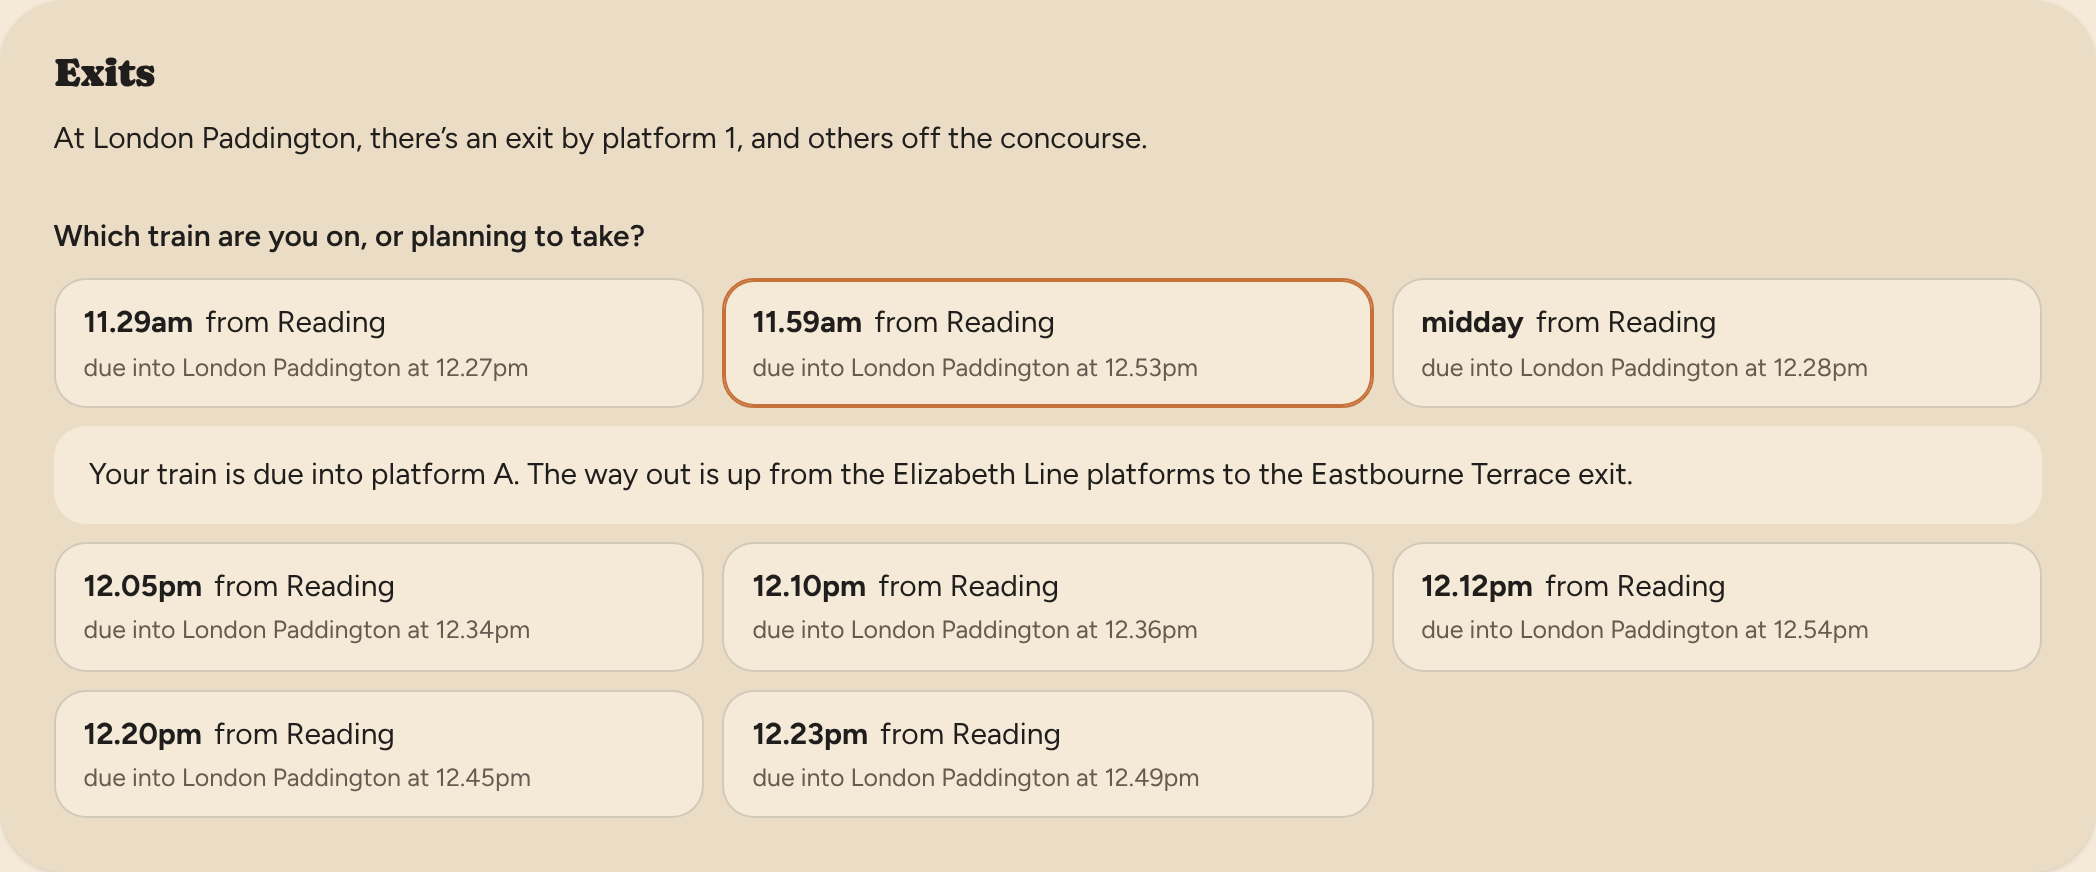
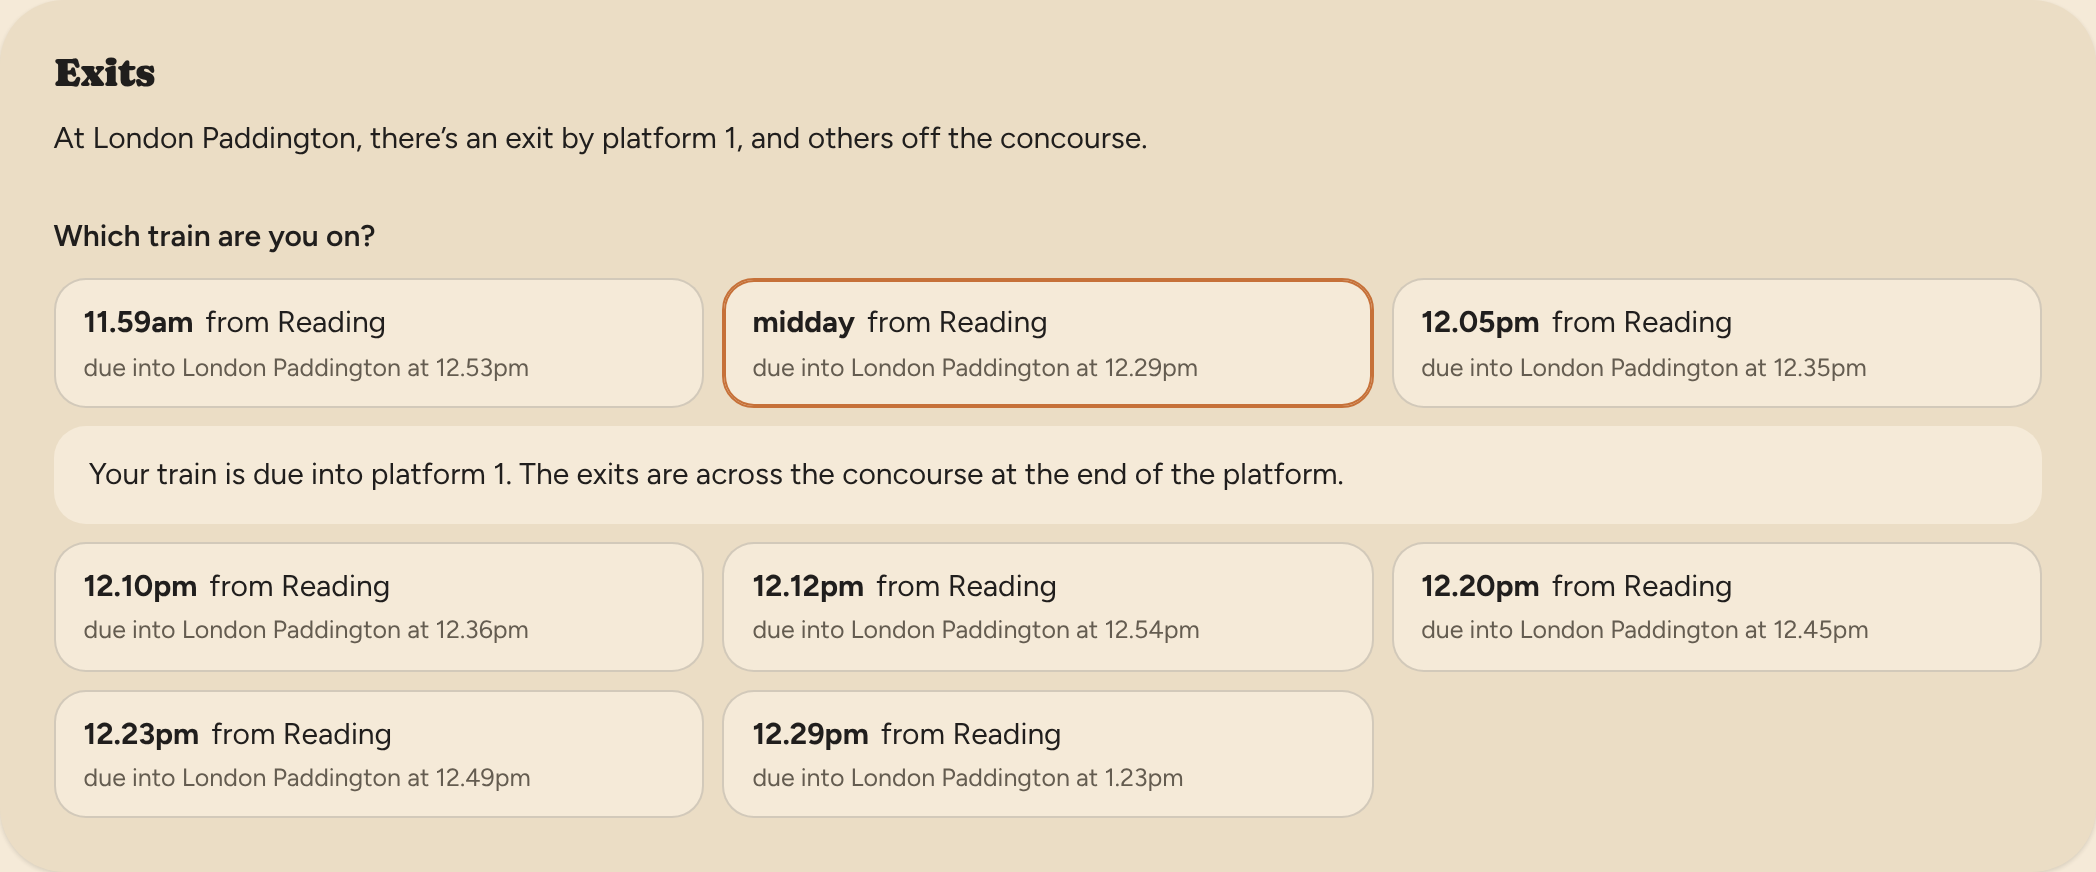
Connections: the answer straight under the train you tapped, as in Exits
Claude-Session: https://claude.ai/code/session_01BsvHLFfPFr7TbPzqXab8yu

diff --git a/src/components/Connection.tsx b/src/components/Connection.tsx
@@ -2,7 +2,7 @@
 // heading, a line, and a fold ("Check trains leaving B"); inside it, step by step: where you're going next from B, which train from A you're on, and the answer
 // in a sentence, with the other trains you could change onto. A prototype: the headings, questions
 // and messages here are Claude's drafts; the answer's wording is in lib/connection.ts.
-import { useEffect, useMemo, useState } from 'react'
+import { Fragment, useEffect, useMemo, useState } from 'react'
 import { clock, diff, type Analysis } from '../lib/analyse.ts'
 import { answer, chipLabel, choices, firstChoice, mineOf, speeds, whichTrain, type Mine } from '../lib/connection.ts'
 import { fetchConnect, fetchPlaces } from '../lib/load.ts'
@@ -13,6 +13,7 @@ import type { Connect } from '../../api/connect.ts'
 import { StationBox } from './Chooser.tsx'
 import { Icon } from './Icon.tsx'
 import type { LinksTable } from '../lib/platformLinks.ts'
+import { rowEnd, useGridCols } from '../lib/useGridCols.ts'
 
 type Result = { s: 'idle' } | { s: 'ok'; d: Connect } | { s: 'failed' }
 const EDGE = { fine: 'good', tight: 'mixed', unlikely: 'prepared', missed: 'prepared', through: 'good', none: 'none', unknown: 'none' } as const
@@ -58,6 +59,9 @@ export function Connection({ a }: { a: Analysis }) {
     // a.taken: asked again with each "Check again".
   }, [dest, mineId, arr, a.toCrs, a.fromCrs, a.taken])
 
+  // How many trains sit side by side in the list (before any early return: it's a hook).
+  const [grid, cols] = useGridCols([open, dest, a])
+
   if (!mines.length) return null
 
   const go = () => {
@@ -90,34 +94,12 @@ export function Connection({ a }: { a: Analysis }) {
   }
   const touch = isTouch()
 
-  return (
-    <section className="card sec block connect">
-      <h3>Connections</h3>
-      <details className="advice connect-fold" onToggle={(e) => setOpen(e.currentTarget.open)}>
-      <summary>Check trains leaving {a.to} <Icon name="down" /></summary>
-      <div className="cstep">
-        <p className="cq">Where are you going next?</p>
-        <div className="cpick">
-          <StationBox label={`From ${a.to} to`} value={text} onChange={(v) => { setText(v); setError(null) }} error={error} go={go} prefer={places} />
-          <button type="button" className="btn btn-primary" onClick={go}>Next</button>
-        </div>
-      </div>
-      {dest && (
-        <div className="cstep">
-          <p className="cq">{whichTrain(a.now, mines.map(({ s }) => s))}</p>
-          <div className="cmines" role="group" aria-label={`Trains from ${a.from}`}>
-            {mines.map(({ s, m }) => (
-              <button key={m.id} type="button" className={`cmine${m.id === mineId ? ' on' : ''}`} aria-pressed={m.id === mineId}
-                onClick={() => { if (m.id !== mineId) { setResult({ s: 'idle' }); setChosen(null) } setMineId(m.id) }}>
-                <b>{t12(s.std)}</b> from {a.from}
-                <span className="muted small">{!m.exp ? 'delayed, no time given yet' : m.arrived ? `got in at ${t12(m.exp)}` : m.lateBy >= 1 ? `now expected into ${a.to} at ${t12(m.exp)}` : `due into ${a.to} at ${t12(m.exp)}`}</span>
-              </button>
-            ))}
-          </div>
-        </div>
-      )}
-      {dest && mineId && result.s === 'idle' && <p className="muted" role="status"><span className="spinner" aria-hidden="true"></span>Asking National Rail about trains to {nameOf(dest)}…</p>}
-      {dest && mineId && result.s === 'failed' && <p role="alert">Sorry, National Rail’s live departures couldn’t be reached just now. Please try again in a minute.</p>}
+  // The answer straight under the train you tapped, as in Exits (John, November 25th 2026); on a
+  // computer, under the end of that row.
+  const reply = !dest || !mineId ? null : (
+    <div className="tap-reply">
+      {result.s === 'idle' && <p className="muted" role="status"><span className="spinner" aria-hidden="true"></span>Asking National Rail about trains to {nameOf(dest)}…</p>}
+      {result.s === 'failed' && <p role="alert">Sorry, National Rail’s live departures couldn’t be reached just now. Please try again in a minute.</p>}
       {ans && (
         <div className="cstep" aria-live="polite">
           <div className={`card verdict state-${EDGE[ans.kind]} canswer`}><p>{ans.text}</p></div>
@@ -134,6 +116,39 @@ export function Connection({ a }: { a: Analysis }) {
           <div className="share-row in-fold">
             <button type="button" className="btn btn-secondary" onClick={share}><Icon name={touch ? 'share' : 'copy'} /> {touch ? 'Share this answer' : 'Copy this answer'}</button>
             <span className="share-status" role="status">{shared}</span>
+          </div>
+        </div>
+      )}
+    </div>
+  )
+  const after = rowEnd(mines.findIndex(({ m }) => m.id === mineId), cols, mines.length)
+
+  return (
+    <section className="card sec block connect">
+      <h3>Connections</h3>
+      <details className="advice connect-fold" onToggle={(e) => setOpen(e.currentTarget.open)}>
+      <summary>Check trains leaving {a.to} <Icon name="down" /></summary>
+      <div className="cstep">
+        <p className="cq">Where are you going next?</p>
+        <div className="cpick">
+          <StationBox label={`From ${a.to} to`} value={text} onChange={(v) => { setText(v); setError(null) }} error={error} go={go} prefer={places} />
+          <button type="button" className="btn btn-primary" onClick={go}>Next</button>
+        </div>
+      </div>
+      {dest && (
+        <div className="cstep">
+          <p className="cq">{whichTrain(a.now, mines.map(({ s }) => s))}</p>
+          <div className="cmines" ref={grid} role="group" aria-label={`Trains from ${a.from}`}>
+            {mines.map(({ s, m }, i) => (
+              <Fragment key={m.id}>
+                <button type="button" className={`cmine${m.id === mineId ? ' on' : ''}`} aria-pressed={m.id === mineId}
+                  onClick={() => { if (m.id !== mineId) { setResult({ s: 'idle' }); setChosen(null) } setMineId(m.id) }}>
+                  <b>{t12(s.std)}</b> from {a.from}
+                  <span className="muted small">{!m.exp ? 'delayed, no time given yet' : m.arrived ? `got in at ${t12(m.exp)}` : m.lateBy >= 1 ? `now expected into ${a.to} at ${t12(m.exp)}` : `due into ${a.to} at ${t12(m.exp)}`}</span>
+                </button>
+                {i === after && reply}
+              </Fragment>
+            ))}
           </div>
         </div>
       )}

diff --git a/src/components/Exits.tsx b/src/components/Exits.tsx
@@ -1,12 +1,13 @@
 // "Station exits" (John, November 22nd 2026), under Arrivals: where B's ways out are, then "Which
 // train are you on?" and, for that train, the way out from the platform it comes into. Left off
 // where the exits aren't known. The wording is in lib/exits.ts.
-import { Fragment, useEffect, useLayoutEffect, useMemo, useRef, useState } from 'react'
+import { Fragment, useEffect, useMemo, useState } from 'react'
 import { diff, type Analysis } from '../lib/analyse.ts'
 import { mineOf, whichTrain } from '../lib/connection.ts'
 import { heading, stationLine, trainLine, type ExitsTable } from '../lib/exits.ts'
 import { fetchArrPlatform } from '../lib/load.ts'
 import { t12 } from '../lib/sentences.ts'
+import { rowEnd, useGridCols } from '../lib/useGridCols.ts'
 
 type Got = { s: 'idle' } | { s: 'ok'; platform: string | null } | { s: 'failed' }
 
@@ -15,18 +16,7 @@ export function Exits({ a }: { a: Analysis }) {
   const [mineId, setMineId] = useState<string | null>(null)
   const [got, setGot] = useState<Got>({ s: 'idle' })
   // How many trains sit side by side in the list (one on a phone).
-  const grid = useRef<HTMLDivElement>(null)
-  const [cols, setCols] = useState(1)
-  useLayoutEffect(() => {
-    const el = grid.current
-    if (!el) return
-    const measure = () => setCols(Math.max(1, getComputedStyle(el).gridTemplateColumns.split(' ').filter(Boolean).length))
-    measure()
-    const ro = new ResizeObserver(measure)
-    ro.observe(el)
-    return () => ro.disconnect()
-    // The list appears once the exits table has loaded.
-  }, [table, a])
+  const [grid, cols] = useGridCols([table, a])
   useEffect(() => {
     let current = true
     import('../data/exits.json').then((m) => current && setTable(m.default as unknown as ExitsTable), () => {})
@@ -58,14 +48,14 @@ export function Exits({ a }: { a: Analysis }) {
   // appeared below the whole list, out of sight on a phone). On a computer the trains sit in
   // columns, so it goes under the end of that row, across the full width.
   const reply = !pick ? null : (
-    <div className="exit-reply">
+    <div className="tap-reply">
       {got.s === 'idle' && e.k !== 'concourse' && <p className="muted" role="status"><span className="spinner" aria-hidden="true"></span>Asking National Rail which platform it’s coming into…</p>}
       {got.s === 'failed' && <p role="alert">Sorry, National Rail’s live arrivals couldn’t be reached just now. Please try again in a minute.</p>}
       {answer && <p className="exit-answer" aria-live="polite">{answer}</p>}
     </div>
   )
   const picked = mines.findIndex(({ m }) => m.id === mineId)
-  const after = picked < 0 ? -1 : Math.min(mines.length, Math.ceil((picked + 1) / cols) * cols) - 1
+  const after = rowEnd(picked, cols, mines.length)
   return (
     <section className="card sec block exits">
       <h3>{heading(a.to, e)}</h3>

diff --git a/src/lib/useGridCols.ts b/src/lib/useGridCols.ts
@@ -1,0 +1,24 @@
+// How many items sit side by side in a CSS grid (one on a phone): so an answer can be drawn under the
+// row of the train you tapped (Exits and Connections, John, November 25th 2026).
+import { useLayoutEffect, useRef, useState, type DependencyList } from 'react'
+
+/** A ref for the grid, and its number of columns, measured again when it resizes or `deps` change
+ *  (the grid may appear only after something has loaded). */
+export function useGridCols(deps: DependencyList) {
+  const ref = useRef<HTMLDivElement>(null)
+  const [cols, setCols] = useState(1)
+  useLayoutEffect(() => {
+    const el = ref.current
+    if (!el) return
+    const measure = () => setCols(Math.max(1, getComputedStyle(el).gridTemplateColumns.split(' ').filter(Boolean).length))
+    measure()
+    const ro = new ResizeObserver(measure)
+    ro.observe(el)
+    return () => ro.disconnect()
+    // eslint-disable-next-line react-hooks/exhaustive-deps
+  }, deps)
+  return [ref, cols] as const
+}
+
+/** The index of the item after which the answer goes: the last one in the tapped item's row. */
+export const rowEnd = (picked: number, cols: number, n: number) => (picked < 0 ? -1 : Math.min(n, Math.ceil((picked + 1) / cols) * cols) - 1)

diff --git a/src/styles/global.css b/src/styles/global.css
@@ -315,8 +315,9 @@ details.trains-fold { margin-top: var(--space-3); }
 .connect .cmine.on, .connect .chip.on, .exits .cmine.on { border-color: var(--color-accent); box-shadow: inset 0 0 0 1px var(--color-accent); }
 .connect .canswer { margin: 0 0 var(--space-3); background: var(--color-bg); }
 /* Station exits' answer (November 22nd 2026): a quiet box, as Connections' answer without its coloured edge. */
-.exits .exit-reply { grid-column: 1 / -1; }
-.exits .exit-reply p { margin: 0; }
+.tap-reply { grid-column: 1 / -1; }
+.tap-reply > p { margin: 0; }
+.tap-reply > .cstep:first-child { margin-top: 0; }
 .exits .exit-answer { margin: 0; padding: var(--space-3) var(--space-4); border-radius: var(--radius-md); background: var(--color-bg); }
 @media (max-width: 720px) { .connect .cpick { grid-template-columns: 1fr; } .connect .cpick > .btn { margin-top: 0; } }
 

diff --git a/CLAUDE.md b/CLAUDE.md
@@ -106,8 +106,15 @@ given its own branch). Before committing there, run
   Checked (`design/previews/arrival-board/exits-under.mjs`, live arrivals, Reading to Paddington): 390px
   dark, third train tapped, answer 9px under it with five trains below; 1200px light, three columns, second
   train tapped, answer under that row; the last train tapped, answer at the end; no errors, no sideways
-  scroll. `tsc -b`, lint, build. Connections has the same layout (its answer after the list): not changed,
-  asked John.
+  scroll. `tsc -b`, lint, build.
+- **John:** Connections the same way. Its answer (with the "Asking…" and error lines, the other trains
+  to ask about and Share) now goes under the train you tapped, or under that row on a computer. The
+  column count is shared: `src/lib/useGridCols.ts` (`useGridCols()`, `rowEnd()`); the class is now
+  `.tap-reply` for both. Checked (`connect-under.mjs`; ILLUSTRATION ONLY: Twyford to Reading for Oxford,
+  the onward trains made up from Oxford's live arrival board, as this session can't ask the departure
+  board): 390px dark and light, 1200px light (three columns): answer 9px under the tapped train or row,
+  the rest of the list below it; Exits re-run unchanged; all checks pass, `tsc -b`, lint, build; no
+  errors, no sideways scroll.
 
 ### November 25th 2026: the Live Arrival Board works (notes only, straight to `main`; Claude Code)
 
